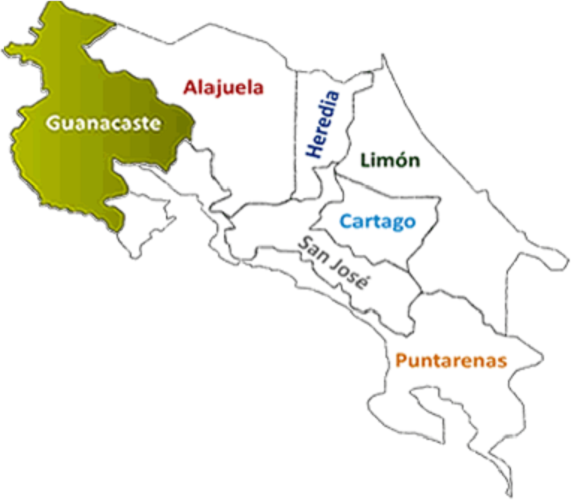
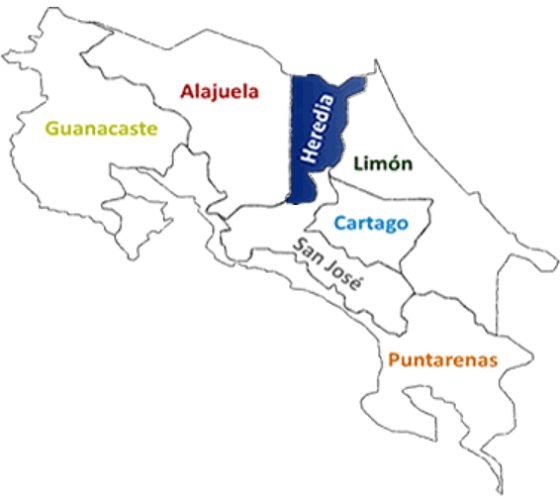
agregando funcionalidad al mousemove de los mapas, cambiando la numeracion de los mapas

diff --git a/src/system/presentation/clientes/View.java b/src/system/presentation/clientes/View.java
@@ -214,6 +214,17 @@ public class View extends javax.swing.JFrame implements java.util.Observer {
                 this.mapaPrincipal.setIcon(costaRica);
             }
         }*/
+        Provincia result = controller.getProvincia(evt.getX(), evt.getY());
+        if (result.equals(" ")) {
+                Icon costaRica = new javax.swing.ImageIcon(getClass().getResource("/mapas/CostaRica.png"));
+                this.mapaPrincipal.setIcon(costaRica);
+        }
+        else {
+                Icon maps = new javax.swing.ImageIcon(getClass().getResource("/mapas/"+result.getNumero()+".png"));
+                this.mapaPrincipal.setIcon(maps);
+                //break;
+            }
+    
     }//GEN-LAST:event_mapaPrincipalMouseMoved
 
     private void mapaPrincipalMouseClicked(java.awt.event.MouseEvent evt) {//GEN-FIRST:event_mapaPrincipalMouseClicked

diff --git a/src/system/Application.java b/src/system/Application.java
@@ -5,6 +5,8 @@
  */
 package system;
 
+import system.presentation.clientes.Controller;
+import system.presentation.clientes.Model;
 import system.presentation.clientes.View;
 
 /**
@@ -14,8 +16,10 @@ import system.presentation.clientes.View;
 public class Application {
     
         public static void main(String[] args) {
-        View reg = new View();
-        reg.setVisible(true);
+        Model model=new Model() ;
+        View view = new View();
+        Controller controller = new Controller(model,view);
+        controller.show();  
+    }
 
      }
-}
